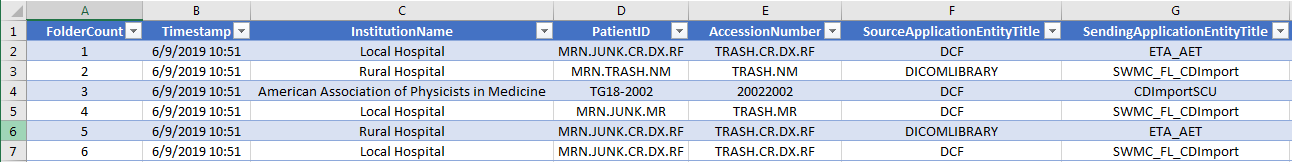
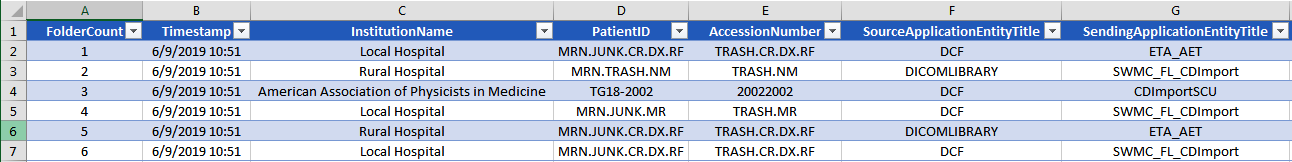
format updates

diff --git a/scripts/dump_ae_station_inst.py b/scripts/dump_ae_station_inst.py
@@ -20,8 +20,10 @@ import xlsxwriter
 
 BASE_DIR, SCRIPT_NAME = os.path.split(os.path.abspath(__file__))
 PARENT_PATH, CURR_DIR = os.path.split(BASE_DIR)
+
 DEBUG = False
 VERBOSE = False
+DEMO = True
 
 
 def get_isp_info() -> str:
@@ -31,7 +33,7 @@ def get_isp_info() -> str:
     except HTTPError as exception:
         print('HTTPError code: ', exception.code)
     except URLError as exception:
-        print("\nERROR: {} {}".format(sys.exc_info()[0], exception))
+        print(f"\nERROR: {sys.exc_info()[0]} {exception}")
         return exception.reason
     isp_data = json.load(response)
     info_str = json.dumps(isp_data, sort_keys=True, indent=4)
@@ -40,23 +42,23 @@ def get_isp_info() -> str:
 
 __author__ = "Emile Averill"
 __email__ = "github.pdx@runbox.com"
-__status__ = "testing"
+__status__ = "demo"
 __license__ = "MIT"
-__version__ = "1.2.5"
-__python_version__ = "{}".format(platform.python_version())
-__host_architecture__ = "{} {} {}".format(platform.system(), platform.architecture()[0], platform.machine())
-__script_encoding__ = "{:26} ({})".format(SCRIPT_NAME, str(sys.getfilesystemencoding()).upper())
-__host_info__ = "{:26} ({}) {:16}".format(platform.node(), locale.getpreferredencoding(), __host_architecture__)
-__header__ = """  license: \t{}
-  python:  \t{}
-  host:    \t{}
-  script:  \t{}
-  author:  \t{}
-  email:   \t{}
-  status:  \t{}
-  version: \t{}
-{}
-""".format(__license__, __python_version__, __host_info__, __script_encoding__, __author__, __email__, __status__, __version__, get_isp_info())
+__version__ = "1.2.6"
+__python_version__ = f"{platform.python_version()}"
+__host_architecture__ = f"{platform.system()} {platform.architecture()[0]} {platform.machine()}"
+__script_encoding__ = f"{SCRIPT_NAME:26} ({str(sys.getfilesystemencoding()).upper()})"
+__host_info__ = f"{platform.node():26} ({locale.getpreferredencoding()}) {__host_architecture__:16}"
+__header__ = f"""  license: \t{__license__}
+  python:  \t{__python_version__}
+  host:    \t{__host_info__}
+  script:  \t{__script_encoding__}
+  author:  \t{__author__}
+  email:   \t{__email__}
+  status:  \t{__status__}
+  version: \t{__version__}
+  isp_info:\t{get_isp_info()}
+"""
 
 
 def print_header() -> None:
@@ -68,7 +70,7 @@ MAX_EXCEL_TAB_DIR = 27
 MAX_EXCEL_TAB = 31
 TEMP_TAG = '~'
 ALPHABET = string.ascii_uppercase
-valid_chars = "-_.()~{}{}".format(string.ascii_letters, string.digits)
+valid_chars = f"-_.()~{string.ascii_letters}{string.digits}"
 
 AVOID_DIRS = []
 AVOID_DIRS.append('.git')
@@ -108,21 +110,21 @@ def get_header_column_widths(input_tag_list: list = []) -> dict:
                     max_length *= scalar   
                 hdr_col_width_dict[header] = int(math.ceil(max_length)) + 2  # each char=1, +2 for readability
     if (VERBOSE):
-        print("dynamically sized columns widths:")
+        print("\nDynamically sized columns widths:")
         for key, value in hdr_col_width_dict.items():
-            print("   {:28} \t {} chars".format(key, value))
+            print(f"   {key:28} \t {value} chars")
     return hdr_col_width_dict
 
 
 def export_to_excel(output_path: str = 'default_path', output_filename: str = 'default_filename', stat_list_of_lists: list = []) -> str:
     def_name = sys._getframe().f_code.co_name.upper()
-    status_str = "{}() in: '{}'\n".format(def_name, output_path)
+    status_str = f"{def_name}() in: '{output_path}'\n"
     print(status_str)
     if (len(stat_list_of_lists) > 0): 
         try:
             file_basename, file_ext = output_filename.split('.')
             output_filepath = os.path.join(output_path, output_filename)
-            workbook = xlsxwriter.Workbook("{}".format(output_filepath))
+            workbook = xlsxwriter.Workbook(f"{output_filepath}")
             worksheet1 = workbook.add_worksheet(file_basename[:MAX_EXCEL_TAB])  # <= 31 chars
             worksheet1.freeze_panes(1, 0)
             # https://xlsxwriter.readthedocs.io/example_conditional_format.html#ex-cond-format
@@ -132,17 +134,20 @@ def export_to_excel(output_path: str = 'default_path', output_filename: str = 'd
             format_green = workbook.add_format({'bg_color': '#C6EFCE', 'font_color': '#006100', 'bold': False})
             
             hdr_col_width_dict = get_header_column_widths(stat_list_of_lists)   # includes both header and cell values in calcuation
-            header_format = workbook.add_format({'bold': True, 'underline': True, 'font_color': 'blue', 'center_across': True})
-            header_format.set_font_size(12)  # default is 11 pt
 
+            xls_font_name = 'Segoe UI'
+            font_pt_size = 11   # default is 11 pt
+            header_format = workbook.add_format({'bold': True, 'underline': True, 'font_color': 'blue', 'center_across': True})
+            header_format.set_font_size(font_pt_size)  
+            header_format.set_font_name(xls_font_name)
+            
             stat_list_of_lists.pop(0)  # remove header row
             for idx, key_hdr in enumerate(hdr_col_width_dict):
                 alpha = ALPHABET[idx]
                 col_width_val = hdr_col_width_dict[key_hdr]
-                worksheet1.set_column('{}:{}'.format(alpha, alpha), col_width_val)
-                worksheet1.write('{}1'.format(alpha), '{}:'.format(key_hdr), header_format)
-              
-            xls_font_name = 'Lucida Console'    
+                worksheet1.set_column(f"{alpha}:{alpha}", col_width_val)  # all rows
+                worksheet1.write(f"{alpha}1", f"{key_hdr}:", header_format)
+            
             centered_cells_int = workbook.add_format()
             centered_cells_int.set_num_format('0')
             centered_cells_int.set_align('vcenter')
@@ -160,7 +165,7 @@ def export_to_excel(output_path: str = 'default_path', output_filename: str = 'd
 
             if (stat_list_of_lists):  # if data after popped header row
                 last_alpha = ALPHABET[len(stat_list_of_lists[0]) - 1]  # last index -1 of len()
-                worksheet1.autofilter('A1:{}65536'.format(last_alpha))
+                worksheet1.autofilter(f"A1:{last_alpha}65536")
                 # A0, B1, C2, D3, E4, F5, G6, H7 = 8 indexed entries
                 row_num = 1  # first row in Excel
                 if (len(stat_list_of_lists) > 0):
@@ -168,15 +173,25 @@ def export_to_excel(output_path: str = 'default_path', output_filename: str = 'd
                         row_num += 1  # not header row
                         for count, tag_val in enumerate(tag_list):
                             alpha = ALPHABET[count]
-                            # print('row_num: {} {} {} idx:{} count:{} tag_val:{}'.format(row_num, alpha, alpha_col_width_dict[alpha], idx, count, str(tag_val)))
-                            worksheet1.write('{}{}'.format(alpha, row_num), str(tag_val), centered_cells)
+                            worksheet1.write(f"{alpha}{row_num}", str(tag_val), centered_cells)
             workbook.close()
-            status_str = "SUCCESS! {}() \n{}".format(def_name, output_filepath)
+            status_str = f"SUCCESS! {def_name}() \n{output_filepath}"
         except (Exception) as exception:
-            status_str = "~!ERROR!~ {}() {}\n{}".format(def_name, sys.exc_info()[0], exception)
+            status_str = f"~!ERROR!~ {def_name}() {sys.exc_info()[0]}\n{exception}"
         finally:
             return status_str
 
+
+transfer_syntaxes = OrderedDict([("1.2.840.10008.1.2",'ImplicitVRLittleEndian'),    # ILE ImplicitVRLittleEndian 
+                               ("1.2.840.10008.1.2.1",'ExplicitVRLittleEndian'),    # ELE ExplicitVRLittleEndian
+                               ("1.2.840.10008.1.2.2",'ExplicitVRBigEndian'),       # EBE ExplicitVRBigEndian
+                               ("1.2.840.10008.1.2.4.50",'JPEGBaselineProcess1'),   # JPG1 JPEGBaselineProcess1
+                               ("1.2.840.10008.1.2.4.51",'JPEGBaselineProcess2'),   # JPG2  JPEGBaselineProcess2
+                               ("1.2.840.10008.1.2.4.57",'JPEGLossless14'),         # JPG14  JPEGLossless14
+                               ("1.2.840.10008.1.2.4.70",'JPEGLossless14FOP'),      # JPG14  JPEGLossless14FOP
+                               ("1.2.840.10008.1.2.4.90",'JPEG2000Lossless'),       # J2KL  JPEG2000LosslessOnly
+                               ("1.2.840.10008.1.2.4.91",'JPEG2000'),               # J2K  JPEG2000
+                               ("1.2.840.10008.1.2.5",'RunLengthEncoding')])        # RLE  RunLengthEncodingLossless
 
 '''
    0002 0016 | sourceApplicationEntityTitle
@@ -214,6 +229,7 @@ def build_fuji_tag_dict(input_filename: str = 'default_filename') -> dict:
     fuji_tag_dict['institutionName'] = '0008 0080'
     fuji_tag_dict['manufacturer'] = '0008 0070'
     fuji_tag_dict['manufacturerModelName'] = '0008 1090'
+    fuji_tag_dict['transferSyntaxUid'] = '0002 0010'
     return fuji_tag_dict
 
 
@@ -228,6 +244,7 @@ def build_dcmtk_tag_dict(input_filename: str = 'default_filename') -> dict:
     dcmtk_tag_dict['institutionName'] = '(0008,0080)'
     dcmtk_tag_dict['manufacturer'] = '(0008,0070)'
     dcmtk_tag_dict['manufacturerModelName'] = '(0008,1090)'
+    dcmtk_tag_dict['transferSyntaxUid'] = '(0002,0010)'
     return dcmtk_tag_dict
 
 
@@ -240,7 +257,7 @@ def is_fuji_tag_dump(txt_file_lines: list = []) -> tuple:
             isFuji = True
         if ('Dicom-Meta-Information-Header' in line_str):
             isDCMTK = True
-        #print("line: '{}'\n   isFuji:{}  isDCMTK: {}".format(line_str[0:48], isFuji, isDCMTK))
+        #print(f"line: '{line_str[0:48]}'\n   isFuji: {isFuji}  isDCMTK: {isDCMTK}")
     return (isFuji, isDCMTK)
 
 
@@ -267,7 +284,7 @@ def get_tag_indices(tag_keywords: list = [], input_lines: list = [], isOptimized
                     tag_indices_dict[tag_keyword] = line_str
     if (DEBUG):
         for tag_key, tag_value in tag_indices_dict.items():
-            print("{}={}".format(tag_key, tag_value))
+            print(f"{tag_key}={tag_value}")
     return tag_indices_dict
 
 
@@ -282,7 +299,7 @@ def check_pathname_skip(input_path: str = 'default_path') -> bool:
 
 def find_files_wext(input_path: str = 'default_path', input_ext: str = '.txt') -> tuple:
     def_name = sys._getframe().f_code.co_name.upper()
-    print("{}({})".format(def_name, input_ext))
+    print(f"{def_name}({input_ext})")
     file_list = []
     file_path_list = []
     # get files, paths for SPECIFIC file extention (including sub-folders)
@@ -294,13 +311,13 @@ def find_files_wext(input_path: str = 'default_path', input_ext: str = '.txt') -
                     if check_pathname_skip(this_file_path):
                         file_list.append(this_file)
                         file_path_list.append(this_file_path)
-        file_path_list.sort(key=lambda x: (-x.count(os.sep), x))
+        file_path_list.sort(key=lambda x: (-x.count(os.sep), x))  # sort based on filename
     return sorted(file_list), file_path_list
 
 
 def parse_dicom_tag_dump(input_headers: list = [], input_folder_path: str = 'default_path') -> list:
     def_name = sys._getframe().f_code.co_name.upper()
-    status_str = "{}() in: '{}'\n".format(def_name, input_folder_path)
+    status_str = f"{def_name}() in: '{input_folder_path}'\n"
     tag_name = 'tagdump'
     source_ext = '.txt'
     filename_list, filepath_list = find_files_wext(input_folder_path, source_ext)
@@ -309,17 +326,17 @@ def parse_dicom_tag_dump(input_headers: list = [], input_folder_path: str = 'def
     output_tag_list = [input_headers]  # first row contains headers
    
     if not filepath_list:
-        error_msg = "~!ERROR!~ missing input files, check input path: \n{}".format(input_folder_path)
+        error_msg = f"~!ERROR!~ missing input files, check input path: \n{input_folder_path}"
         print(error_msg)
     else:
-        print("PARSING: ({}) '{}' files".format(len(filepath_list), source_ext))
+        print(f"PARSING: ({len(filepath_list)}) '{source_ext}' files")
         for this_file in filepath_list:
             file_count += 1
             parsed_file_list = []
             read_file_handle = open(this_file, 'r')
             
             if (tag_name not in this_file):
-                print("   reading_{:03}: {}".format(file_count, this_file))
+                print(f"   reading_{file_count:03}: {this_file}")
                 lines_list = read_file_handle.readlines()
                 
                 # dynamically determine which input file format: based on unique substring in first n-lines
@@ -354,14 +371,14 @@ def parse_dicom_tag_dump(input_headers: list = [], input_folder_path: str = 'def
                                     target_value = line_str.split('"', 1)[1].split('"')[0]
                                     tag_dict[tag_key] = target_value
                         if (DEBUG):
-                            print("tag_{:02} {:24} \t{}  line: {:40} len:{:02} chars".format(tag_num, tag_key, tag_value, line_str, len(line_str)))
+                            print(f"tag_{tag_num:02} {tag_key:24} \t{tag_value}  line: {line_str:40} len:{len(line_str):02} chars")
                         
                     for tag_attribute, parsed_val in tag_dict.items():
                         parsed_file_list.append(parsed_val)
                     output_tag_list.append(parsed_file_list)
                     
             read_file_handle.close()
-        print("EXTRACTION: {} dumps of {} '{}' files".format(dump_count, file_count, source_ext))
+        print(f"EXTRACTION: {dump_count} dumps of {file_count} '{source_ext}' files")
     return output_tag_list
 
 
@@ -371,38 +388,47 @@ def get_cmd_args():
     parser.add_option("-i", "--input", help="input path")
     options, remain = parser.parse_args()
     if options.input is None:
-        input_path = os.path.join(PARENT_PATH, 'input', 'tag_dumps')
+        if (DEMO):
+            input_path = os.path.join(PARENT_PATH, 'input', 'tag_dumps')
+        else:
+            input_path = os.path.join(PARENT_PATH, CURR_DIR, 'tag_dumps_all')
     else:
-        path_head, path_tail = os.path.split(options.input)
-        input_path = os.path.join(path_head, path_tail)
-    print("{}() dumping path:'{}'".format(def_name, input_path))
+        input_path = options.input
+        if (os.path.exists(input_path) and os.path.isdir(input_path)):
+            print(f"{def_name}() dumping path:'{input_path}'")
+        else: 
+            parser.error(f"invalid path: '{input_path}'")
+            input_path = None
     return input_path
     
     
 if __name__ == "__main__":
-    print("{} starting... ".format(SCRIPT_NAME))
+    print(f"{SCRIPT_NAME} starting...")
     start = time.perf_counter()
     print_header()
 
     input_path = get_cmd_args()
     if os.path.exists(input_path):
-        
-        output_path = os.path.join(PARENT_PATH, 'output')
+        if (DEMO):
+            output_path = os.path.join(PARENT_PATH, 'output')
+        else:
+            output_path = os.path.join(PARENT_PATH, CURR_DIR, 'tag_dumps_all')
         if not os.path.exists(output_path):
             os.makedirs(output_path)
             
-        headers = ["filename", "accessionNumber", "modality", "sourceApplicationEntityTitle", "stationName", "institutionName", "manufacturer", "manufacturerModelName"]
+        headers = ["filename", "accessionNumber", "modality", "sourceApplicationEntityTitle", "stationName",
+                   "institutionName", "manufacturer", "manufacturerModelName", "transferSyntaxUid"]
         all_tag_list = parse_dicom_tag_dump(headers, input_path)
 
         curr_date, curr_time = generate_date_str()
-        output_filename = "{}dicom_{}.xlsx".format(TEMP_TAG, 'tag_dumps')
+        output_filename = f"{TEMP_TAG}dicom_tag_dumps.xlsx"
         
         # works on both Linux and Windows
         if (len(all_tag_list) > 1):  # more than just headers
             xls_status = export_to_excel(output_path, output_filename, all_tag_list)
-            print("{}".format(xls_status))
+            print(xls_status)
     else:
-        print("~!ERROR!~ invalid path: {}".format(input_path))
+        print(f"~!ERROR!~ invalid path: {input_path}")
         
     end = time.perf_counter() - start
-    print("{0} finished in {1:0.2f} seconds".format(SCRIPT_NAME, end))
+    print(f"{SCRIPT_NAME} finished in {end:0.2f} seconds")

diff --git a/README.md b/README.md
@@ -47,7 +47,7 @@ IMG_RTR_MM-YYYY_LOGs   (for Excel/text reports)
 * [pydicom](https://pydicom.github.io/pydicom/stable/index.html)
 * [DCF SDK](http://www.laurelbridge.com/products/dcf/)
 * [DCF Examples](http://www.laurelbridge.com/docs/dcf34/ExampleDocs/)
-
+* [GDCM](https://github.com/malaterre/GDCM)
 
 ## License:
 [Licensed under the MIT License](LICENSE).
